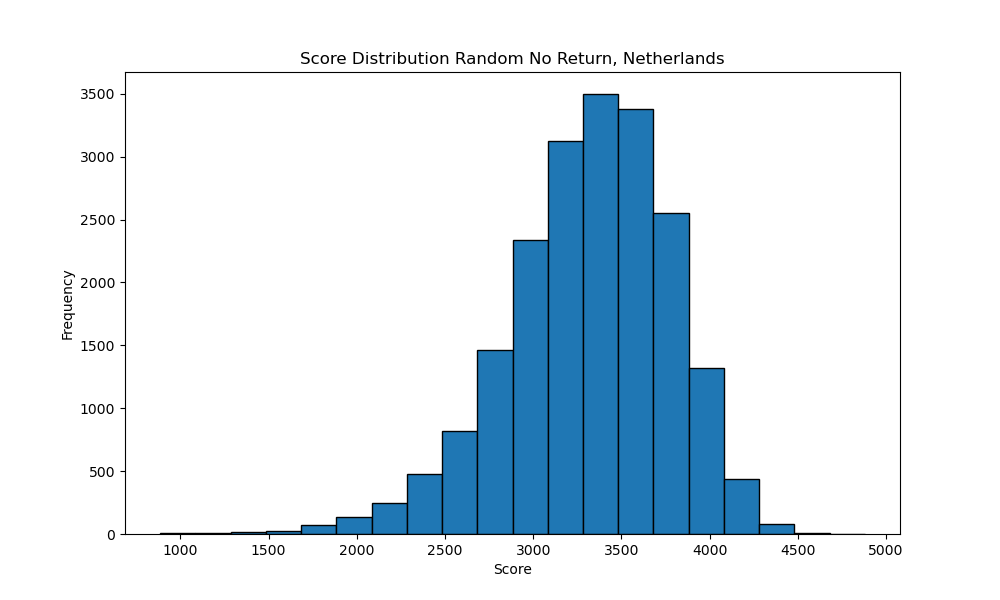
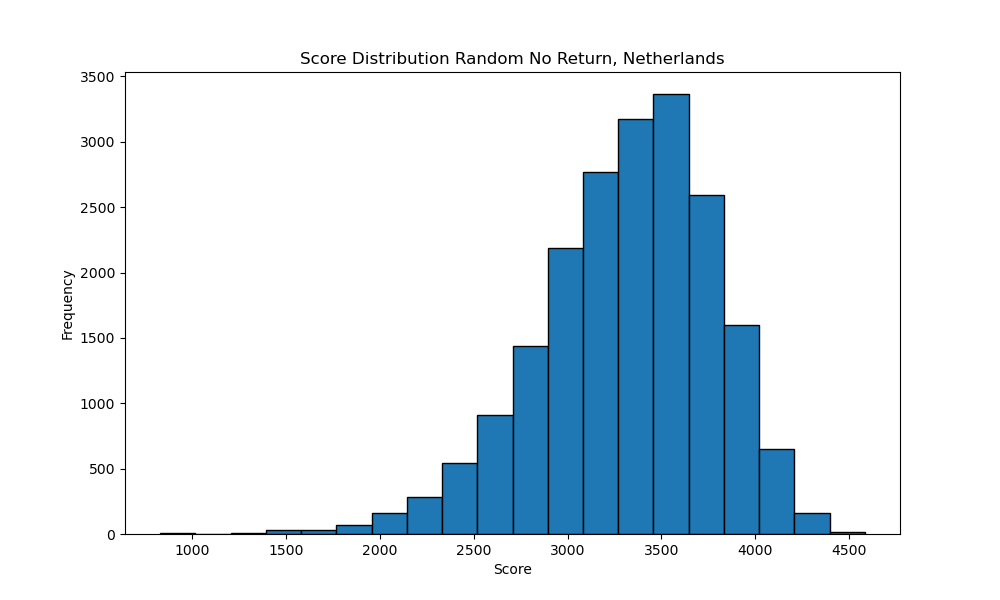
commit changes

diff --git a/main.py b/main.py
@@ -12,7 +12,7 @@ def main():
     # create the output folder if it doesn't exist
     if not os.path.exists('output'):
         os.makedirs('output')
-    #
+
     # # data for Noord-Holland
     # data = LoadData('data/ConnectiesHolland.csv', 'data/StationsHolland.csv')
     # all_connections = data.connections
@@ -56,10 +56,11 @@ def main():
     # greedy_results.to_csv('output/output_greedy.csv')
     #
     # # calculate and plot score distribution
-    # ScoreDistribution(20000, Random_R, all_connections, 'output/score_distribution_r.png', 'Score Distribution Random Return', 7, all_connections, 120)
-    # ScoreDistribution(20000, Random_NR, all_connections, 'output/score_distribution_nr.png', 'Score Distribution Random No Return', 7, all_connections, 120)
-    # ScoreDistribution(20000, Score_Optimizer, all_connections, 'output/score_distribution_so.png', 'Score Distribution Optimizer', 7, all_connections, 120)
-    # ScoreDistribution(20000, Greedy, all_connections, 'output/score_distribution_greedy.png', 'Score Distribution Greedy', 7, all_connections, 120)
+    # ScoreDistribution(20000, Random_R, all_connections, 'output/score_distribution_r.png', 'Score Distribution Random Return, Holland', 7, all_connections, 120)
+    # ScoreDistribution(20000, Random_NR, all_connections, 'output/score_distribution_nr.png', 'Score Distribution Random No Return, Holland', 7, all_connections, 120)
+    # ScoreDistribution(20000, Score_Optimizer, all_connections, 'output/score_distribution_so.png', 'Score Distribution Optimizer, Holland', 7, all_connections, 120)
+    # ScoreDistribution(20000, Greedy, all_connections, 'output/score_distribution_greedy.png', 'Score Distribution Greedy, Holland', 7, all_connections, 120)
+    #
     # # plot the trajectories
     # plotter = TrainNetwork('data/ConnectiesHolland.csv', 'data/StationsHolland.csv')
     # plotter.create_graph()
@@ -77,9 +78,9 @@ def main():
     random_nr = Random_NR(20, all_connections, 180)
     random_nr_results = Base(random_nr.all_trajectories, random_nr.trajectory_count, all_connections)
 
-    # score Score_Optimizer
-    score_optimizer = Score_Optimizer(20, all_connections, 180)
-    score_optimizer_results = Base(score_optimizer.all_trajectories, score_optimizer.trajectory_count, all_connections)
+    # # score Score_Optimizer
+    # score_optimizer = Score_Optimizer(20, all_connections, 180)
+    # score_optimizer_results = Base(score_optimizer.all_trajectories, score_optimizer.trajectory_count, all_connections)
 
     # run experiment and calculate score
     random_r.add_trajectory()
@@ -88,26 +89,26 @@ def main():
     random_nr.add_trajectory()
     random_nr_results.calculate_score()
 
-    score_optimizer.add_trajectory()
-    score_optimizer_results.calculate_score()
+    # score_optimizer.add_trajectory()
+    # score_optimizer_results.calculate_score()
 
-    # Greedy algorithm
-    greedy = Greedy(7, all_connections, 120)
-    greedy.add_trajectory()
-    greedy_results = Base(greedy.all_trajectories, greedy.trajectory_count, all_connections)
-    score = greedy_results.calculate_score()
+    # # Greedy algorithm
+    # greedy = Greedy(7, all_connections, 120)
+    # greedy.add_trajectory()
+    # greedy_results = Base(greedy.all_trajectories, greedy.trajectory_count, all_connections)
+    # score = greedy_results.calculate_score()
 
     # save results to csv
     random_r_results.to_csv('output/NL_output_r.csv')
     random_nr_results.to_csv('output/NL_output_nr.csv')
-    score_optimizer_results.to_csv('output/output_so.csv')
-    greedy_results.to_csv('output/output_greedy.csv')
+    # score_optimizer_results.to_csv('output/output_so.csv')
+    # greedy_results.to_csv('output/output_greedy.csv')
 
     # calculate and plot score distribution
     ScoreDistribution(20000, Random_R, all_connections, 'output/NL_score_distribution_r.png', 'Score Distribution Random Return, Netherlands', 20, all_connections, 180)
     ScoreDistribution(20000, Random_NR, all_connections, 'output/NL_score_distribution_nr.png', 'Score Distribution Random No Return, Netherlands', 20, all_connections, 180)
-    ScoreDistribution(20000, Score_Optimizer, all_connections, 'output/score_distribution_so.png', 'Score Distribution Optimizer, Netherlands', 20, all_connections, 180)
-    ScoreDistribution(20000, Greedy, all_connections, 'output/score_distribution_greedy.png', 'Score Distribution Greedy, Netherlands', 20, all_connections, 180)
+    # ScoreDistribution(20000, Score_Optimizer, all_connections, 'output/score_distribution_so.png', 'Score Distribution Optimizer, Netherlands', 20, all_connections, 180)
+    # ScoreDistribution(20000, Greedy, all_connections, 'output/score_distribution_greedy.png', 'Score Distribution Greedy, Netherlands', 20, all_connections, 180)
 
     # plot the trajectories
     plotter = TrainNetwork('data/ConnectiesNationaal.csv', 'data/StationsNationaal.csv')
